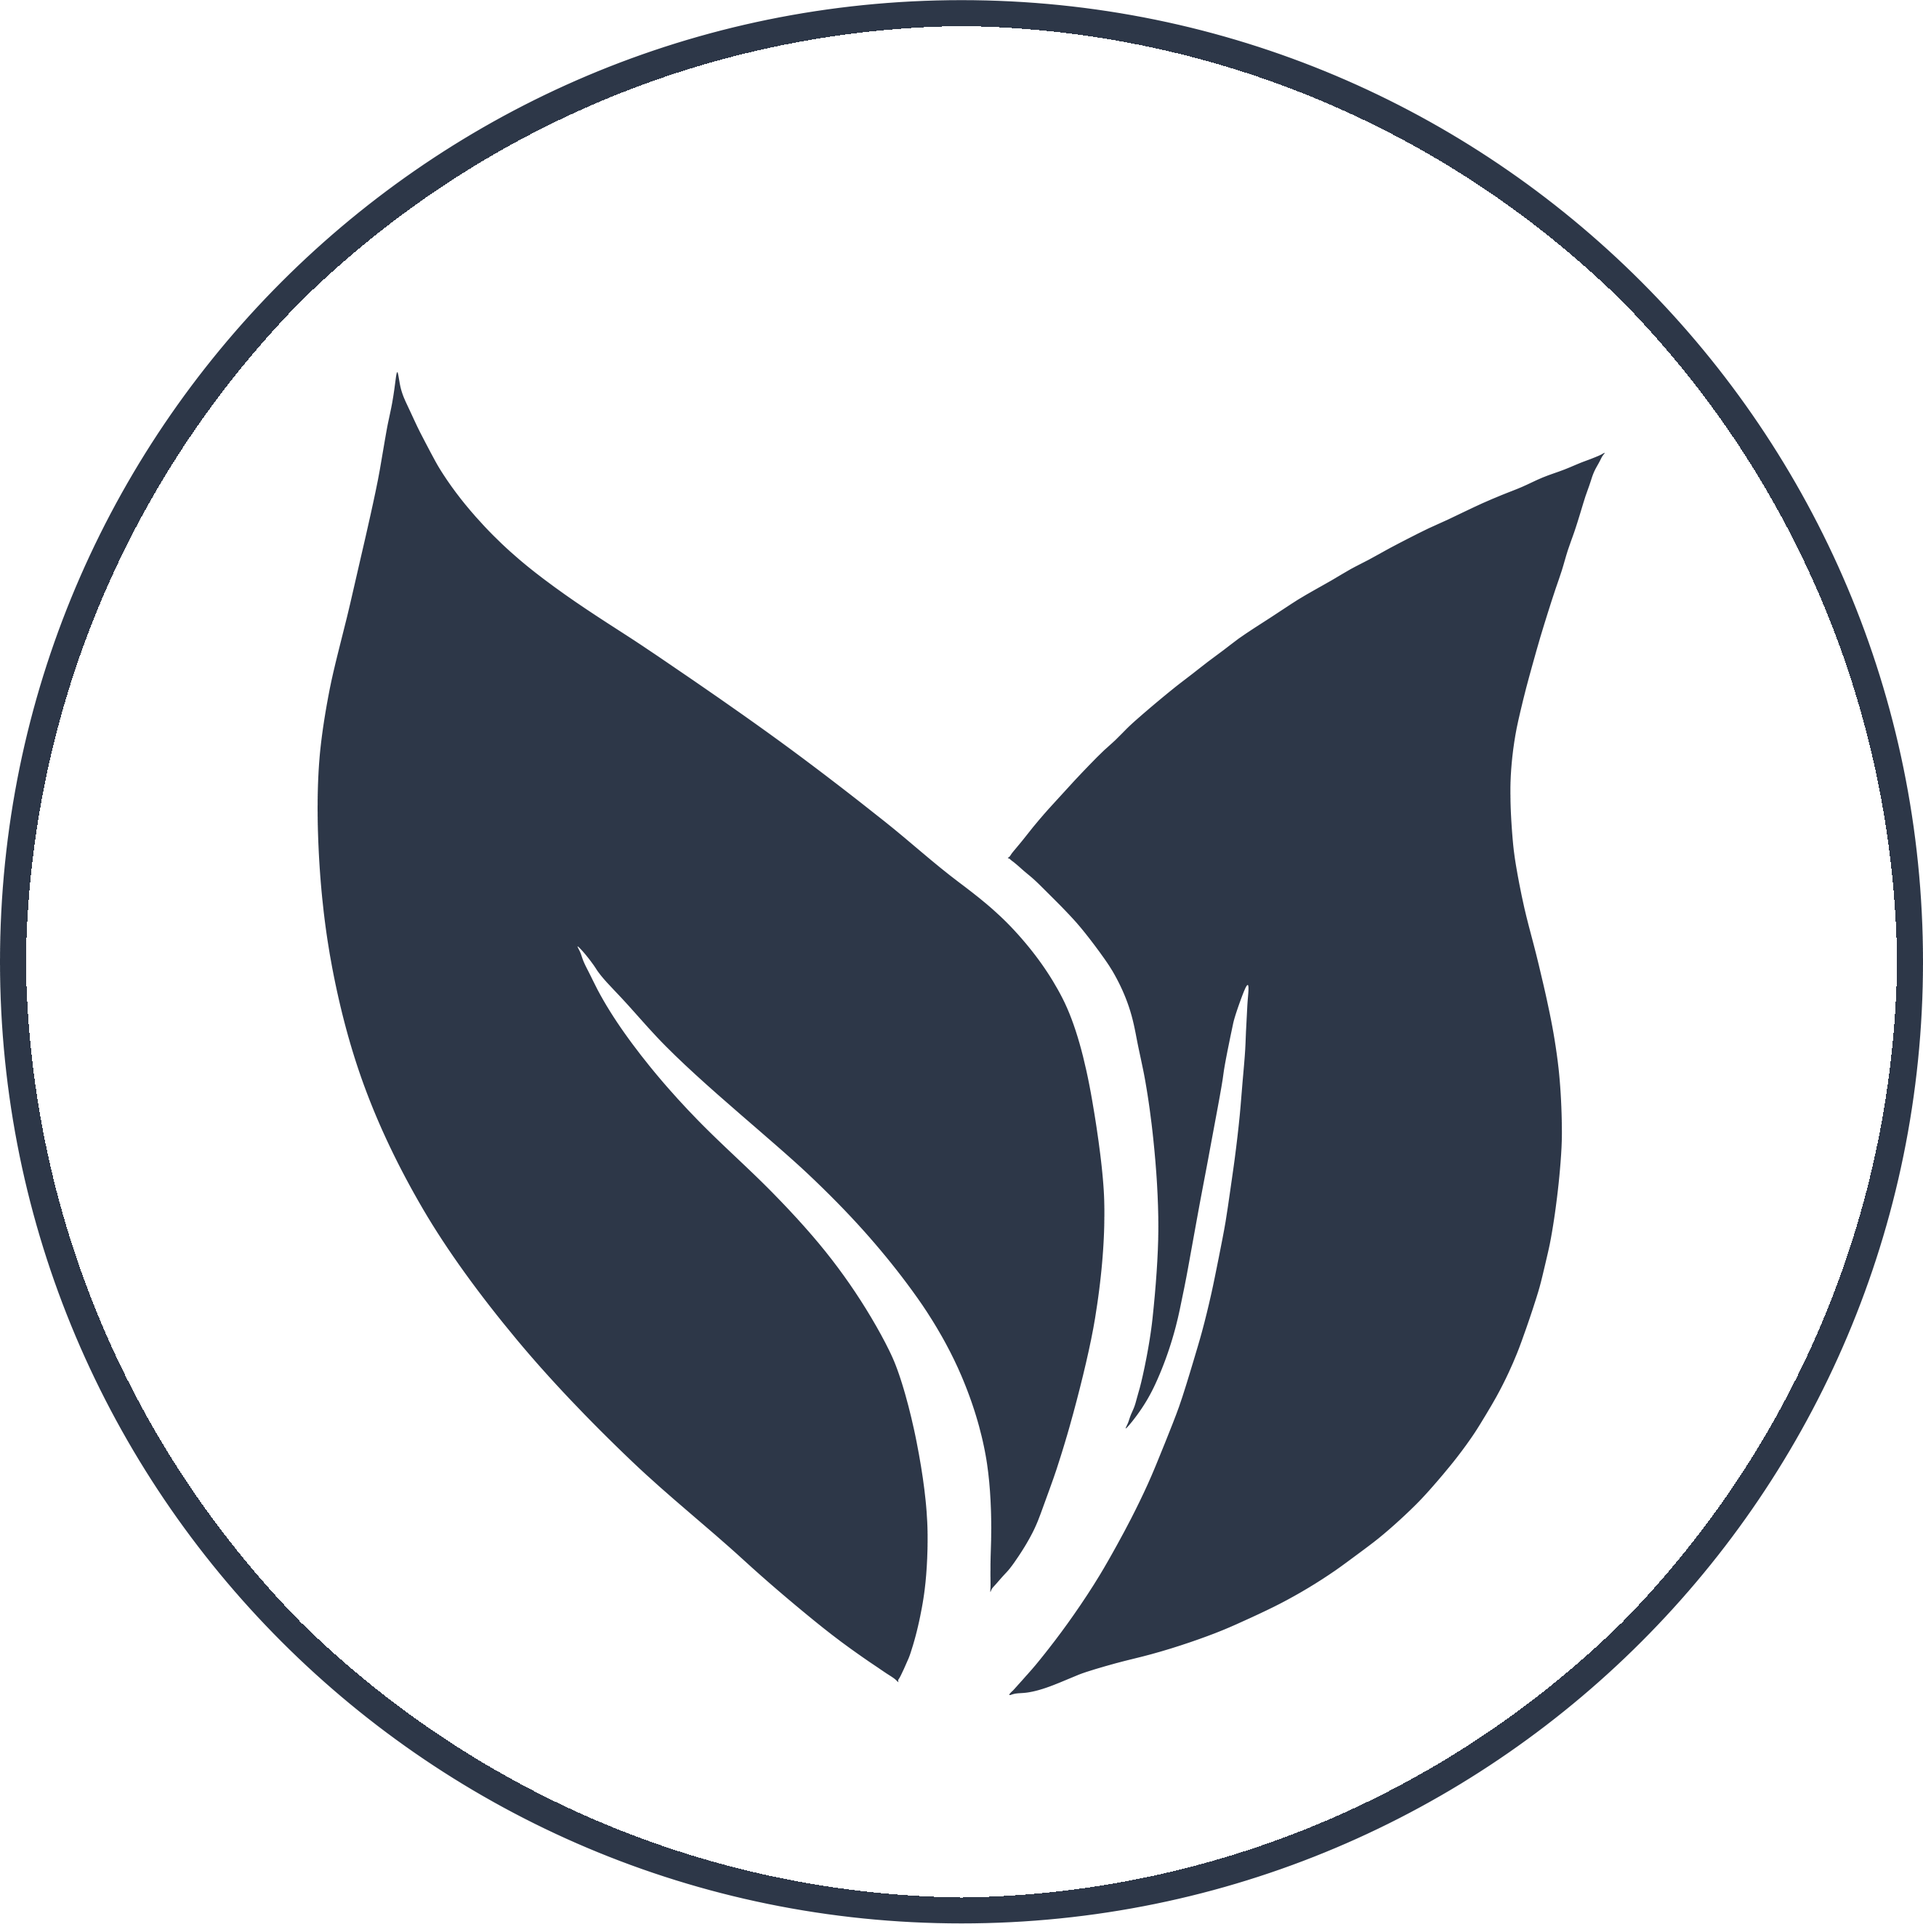
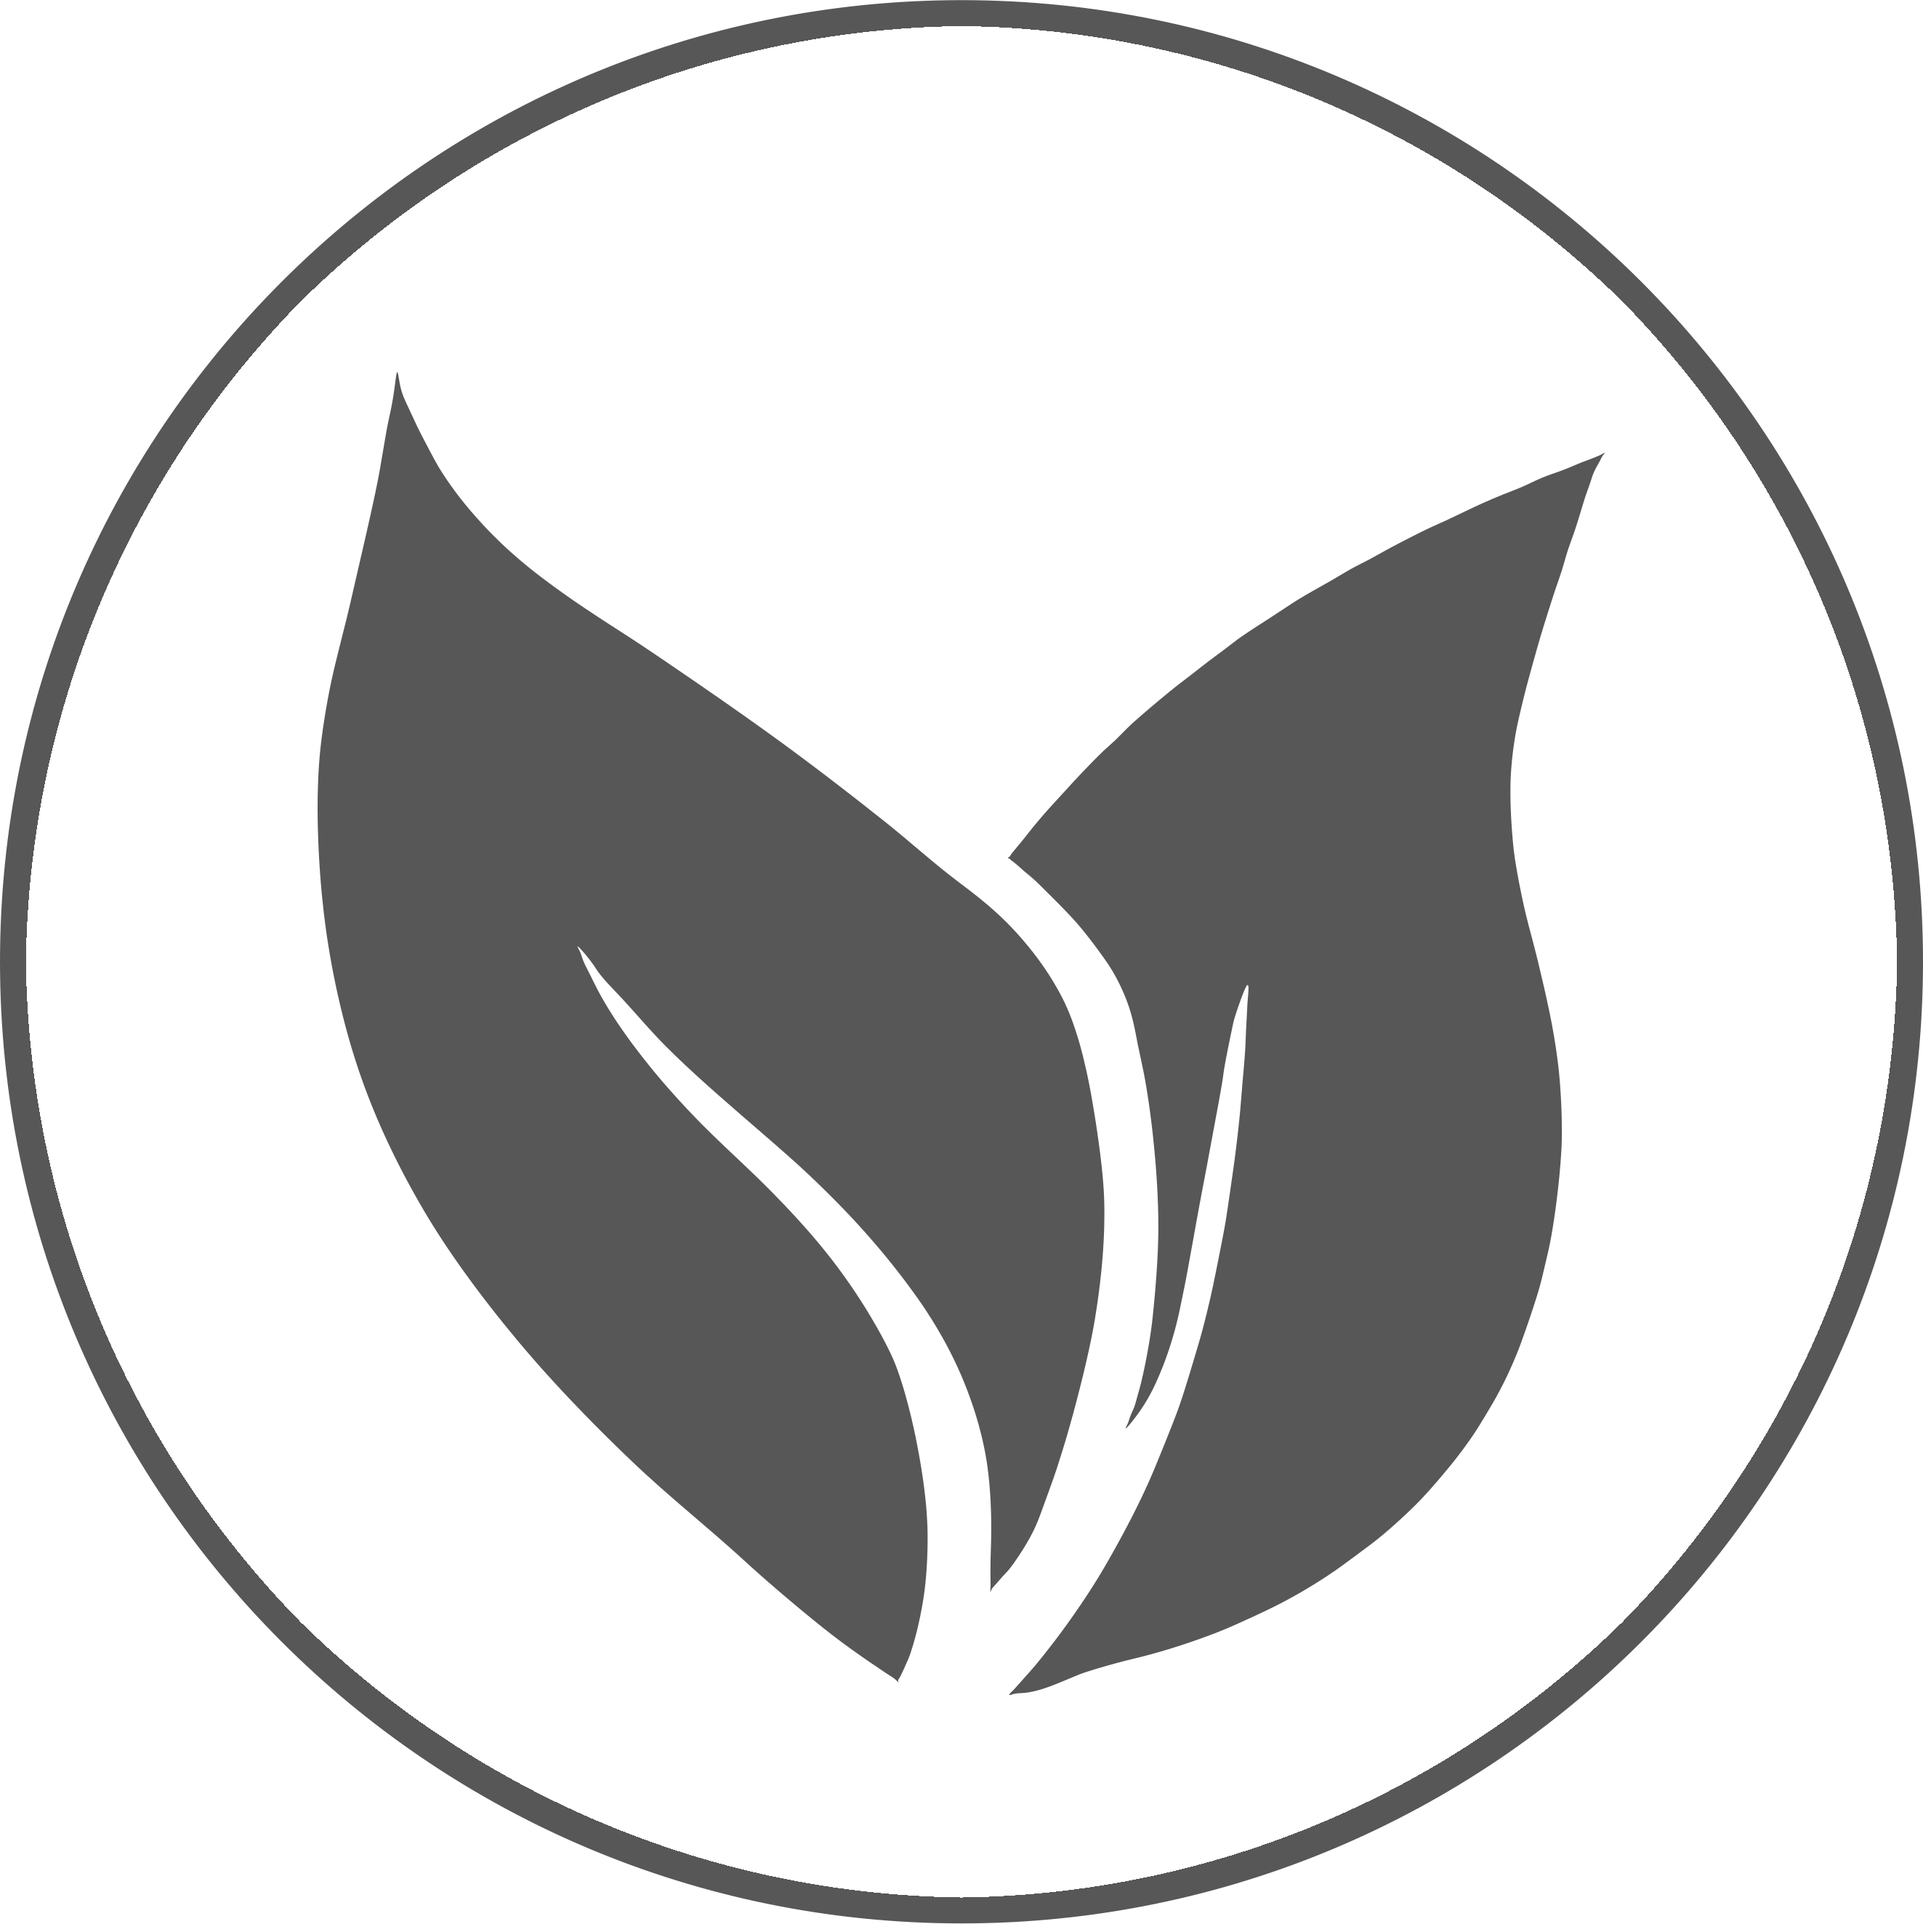
palette push

diff --git a/ptcg-server/src/sets/set-temporal-forces/gengar-ex.ts b/ptcg-server/src/sets/set-temporal-forces/gengar-ex.ts
@@ -53,17 +53,17 @@ export class Gengarex extends PokemonCard {
       const player = effect.player;
       const opponent = StateUtils.getOpponent(state, player);
       const hasBench = opponent.bench.some(b => b.cards.length > 0);
-    
+
       if (hasBench === false) {
         return state;
       }
-    
+
       return store.prompt(state, new AttachEnergyPrompt(
         player.id,
         GameMessage.ATTACH_ENERGY_TO_BENCH,
         opponent.active,
         PlayerType.TOP_PLAYER,
-        [ SlotType.BENCH ],
+        [SlotType.BENCH],
         { superType: SuperType.ENERGY },
         { allowCancel: false, min: 0, max: 1 }
       ), transfers => {
@@ -77,8 +77,19 @@ export class Gengarex extends PokemonCard {
 
 
     if (effect instanceof AttachEnergyEffect) {
+
       const player = effect.player;
-      const opponent = StateUtils.getOpponent(state, player);
+      // const opponent = StateUtils.getOpponent(state, player);
+
+      let isGengarInPlay = false;
+      if (player.active.cards[0] === this || player.bench.some(b => b.cards[0] === this)) {
+        isGengarInPlay = true;
+      }
+
+      if (!isGengarInPlay) {
+        return state;
+      }
+
 
       try {
         const powerEffect = new PowerEffect(player, this.powers[0], this);
@@ -87,21 +98,18 @@ export class Gengarex extends PokemonCard {
         return state;
       }
 
+
+
       // const cardList = [opponent.active, ...opponent.bench].filter(b => b.cards.length > 0);
       // if (cardList.length === 0) {
       //   return state;
       // }
 
+
       const target = effect.target;
-      const hasBench = opponent.bench.some(b => b.cards.length > 0);
-      if (target == player.active || hasBench) {
-        target.damage = 0;
-      }
 
-      target.damage = 20;
-
+      target.damage += 20;
     }
     return state;
   }
 }
-

diff --git a/ptcg-play/src/app/table/_table-theme.scss b/ptcg-play/src/app/table/_table-theme.scss
@@ -9,15 +9,15 @@
   $warn: map-get($theme, warn);
 
   //Board + Card Slot Border
-  $table-border: solid 1px mat.get-color-from-palette($primary, A100);
-  $active-player-background-color: mat.get-color-from-palette($primary, A100);
-  $hand-background-color: mat.get-color-from-palette($primary, A700);
-  $table-sidebar-header-background-color: mat.get-color-from-palette($primary, A200);
-  $table-sidebar-logs-background-color: mat.get-color-from-palette($primary, A200);
-  $table-sidebar-time-empty-progress: mat.get-color-from-palette($primary, A200);
-  $table-sidebar-time-disabled-progress: mat.get-color-from-palette($primary, A100);
-  $table-sidebar-time-running-progress: mat.get-color-from-palette($primary, A400);
-  $choose-avatar-background-color: mat.get-color-from-palette($primary, A00);
+  $table-border: solid 1px mat.get-color-from-palette($foreground, divider);
+  $active-player-background-color: mat.get-color-from-palette($background, focused-button);
+  $hand-background-color: mat.get-color-from-palette($background, app-bar);
+  $table-sidebar-header-background-color: mat.get-color-from-palette($background, background);
+  $table-sidebar-logs-background-color: mat.get-color-from-palette($background, focused-button);
+  $table-sidebar-time-empty-progress: mat.get-color-from-palette($foreground, divider);
+  $table-sidebar-time-disabled-progress: mat.get-color-from-palette($foreground, disabled-button);
+  $table-sidebar-time-running-progress: mat.get-color-from-palette($accent);
+  $choose-avatar-background-color: mat.get-color-from-palette($background, hover);
 
   ptcg-hand {
     background-color: $hand-background-color;

diff --git a/ptcg-server/output/sets/set-temporal-forces/gengar-ex.js b/ptcg-server/output/sets/set-temporal-forces/gengar-ex.js
@@ -54,7 +54,14 @@ class Gengarex extends pokemon_card_1.PokemonCard {
         }
         if (effect instanceof play_card_effects_1.AttachEnergyEffect) {
             const player = effect.player;
-            const opponent = game_1.StateUtils.getOpponent(state, player);
+            // const opponent = StateUtils.getOpponent(state, player);
+            let isGengarInPlay = false;
+            if (player.active.cards[0] === this || player.bench.some(b => b.cards[0] === this)) {
+                isGengarInPlay = true;
+            }
+            if (!isGengarInPlay) {
+                return state;
+            }
             try {
                 const powerEffect = new game_effects_1.PowerEffect(player, this.powers[0], this);
                 store.reduceEffect(state, powerEffect);
@@ -67,11 +74,7 @@ class Gengarex extends pokemon_card_1.PokemonCard {
             //   return state;
             // }
             const target = effect.target;
-            const hasBench = opponent.bench.some(b => b.cards.length > 0);
-            if (target == player.active || hasBench) {
-                target.damage = 0;
-            }
-            target.damage = 20;
+            target.damage += 20;
         }
         return state;
     }

diff --git a/ptcg-play/src/app/main/_main-theme.scss b/ptcg-play/src/app/main/_main-theme.scss
@@ -6,9 +6,9 @@
   $foreground: map-get($theme, foreground);
   $primary: map-get($theme, primary);
   $avatar-background-color: mat.get-color-from-palette($background, A400);
-  $logged-user-background-color: mat.get-color-from-palette($primary, A700); //mat-color($background, focused-button);
+  $logged-user-background-color: mat.get-color-from-palette($primary, 900); //mat-color($background, focused-button);
   $logged-user-text-color: mat.get-contrast-color-from-palette($primary, A200);
-  $sidenav-table-header-background-color: mat.get-color-from-palette($primary, A200);
+  $sidenav-table-header-background-color: mat.get-color-from-palette($background);
   $sidenav-deleted-text-color: mat.get-color-from-palette($foreground, secondary-text);
 
   ptcg-toolbar {

diff --git a/ptcg-server/output/sets/set-paldea-evolved/great-ball.js b/ptcg-server/output/sets/set-paldea-evolved/great-ball.js
@@ -52,6 +52,7 @@ class GreatBall extends trainer_card_1.TrainerCard {
                         // No Pokemon chosen, shuffle all back
                         temp.cards.forEach(card => {
                             temp.moveCardTo(card, player.deck);
+                            player.supporter.moveCardTo(this, player.discard);
                         });
                     }
                     return store.prompt(state, new game_1.ShuffleDeckPrompt(player.id), order => {
@@ -60,7 +61,6 @@ class GreatBall extends trainer_card_1.TrainerCard {
                     });
                 });
             }
-            return state;
         }
         return state;
     }

diff --git a/ptcg-server/output/sets/set-temporal-forces/sableye.js b/ptcg-server/output/sets/set-temporal-forces/sableye.js
@@ -68,9 +68,9 @@ class Sableye extends game_1.PokemonCard {
                     for (const transfer of transfers) {
                         const source = game_1.StateUtils.getTarget(state, player, transfer.from);
                         const target = game_1.StateUtils.getTarget(state, player, transfer.to);
-                        if (source.damage >= 0) {
+                        if (source.damage >= 10) {
                             source.damage -= source.damage;
-                            target.damage += source.damage;
+                            target.damage += target.damage;
                         }
                     }
                     return state;

diff --git a/ptcg-play/src/app/deck/deck-edit/_deck-edit-theme.scss b/ptcg-play/src/app/deck/deck-edit/_deck-edit-theme.scss
@@ -7,8 +7,8 @@
   $primary: map-get($theme, primary);
 
   $deck-edit-border: solid 0px mat.get-color-from-palette($foreground, divider);
-  $deck-edit-background-color: mat.get-color-from-palette($primary, A700);
-  $deck-edit-toolbar-background-color: mat.get-color-from-palette($primary, A700);
+  $deck-edit-background-color: mat.get-color-from-palette($background);
+  $deck-edit-toolbar-background-color: mat.get-color-from-palette($background);
 
   ptcg-deck-edit-panes {
     .ptcg-deck-edit-pane.secondary {

diff --git a/ptcg-play/src/app/shared/sidebar/_sidebar-theme.scss b/ptcg-play/src/app/shared/sidebar/_sidebar-theme.scss
@@ -6,8 +6,8 @@
   $background: map-get($theme, background);
   $foreground: map-get($theme, foreground);
 
-  $sidebar-side-border: solid 1px mat.get-color-from-palette($primary, A100);
-  $sidebar-background-color: mat.get-color-from-palette($primary, A200);
+  $sidebar-side-border: solid 1px mat.get-color-from-palette($foreground, divider);
+  $sidebar-background-color: mat.get-color-from-palette($background, dialog);
 
   ptcg-sidebar {
     background-color: $sidebar-background-color;

diff --git a/ptcg-server/src/sets/set-paldea-evolved/great-ball.ts b/ptcg-server/src/sets/set-paldea-evolved/great-ball.ts
@@ -81,6 +81,8 @@ export class GreatBall extends TrainerCard {
           // No Pokemon chosen, shuffle all back
             temp.cards.forEach(card => {
               temp.moveCardTo(card, player.deck);
+
+              player.supporter.moveCardTo(this, player.discard);
             });  
           }
     
@@ -92,10 +94,11 @@ export class GreatBall extends TrainerCard {
         });
     
       }
-    
-      return state;
-    
+
     }
+
     return state;
+
   }
+  
 }

diff --git a/ptcg-play/src/theme/app.scss b/ptcg-play/src/theme/app.scss
@@ -9,8 +9,8 @@
 
 @include mat.core();
 
-$ptcg-primary: mat.define-palette(mat.$pink-palette, A700);
-$ptcg-accent:  mat.define-palette(mat.$pink-palette, A200);
+$ptcg-primary: mat.define-palette(mat.$grey-palette, A700);
+$ptcg-accent:  mat.define-palette(mat.$grey-palette, A200);
 
 // The warn palette is optional (defaults to red).
 $ptcg-warn:    mat.define-palette(mat.$deep-orange-palette);

diff --git a/ptcg-play/src/app/app.component.scss b/ptcg-play/src/app/app.component.scss
@@ -5,12 +5,10 @@
   display: flex;
   flex-direction: column;
   height: 100%;
-  background-color: #212835;
 
   > mat-sidenav-container {
     flex: 1 1;
     z-index: unset;
-    background-color: #212835;
   }
 
   > mat-sidenav-container > mat-sidenav-content {
@@ -20,5 +18,4 @@
 
 .ptcg-app-sidenav {
   width: map-get($ptcg-size, nav-menu);
-  background-color: #2d3748;
 }

diff --git a/ptcg-play/src/app/main/toolbar/toolbar.component.html b/ptcg-play/src/app/main/toolbar/toolbar.component.html
@@ -1,4 +1,4 @@
-<mat-toolbar color="primary" [ngClass]="{'is-logged-in': loggedUser}">
+<mat-toolbar color="secondary" [ngClass]="{'is-logged-in': loggedUser}">
   <img src="http://localhost:8080/avatars/tl-beta.png" width="8%" (click)="onLogoClick()">
   <span class="epsd-spacer"></span>
 
